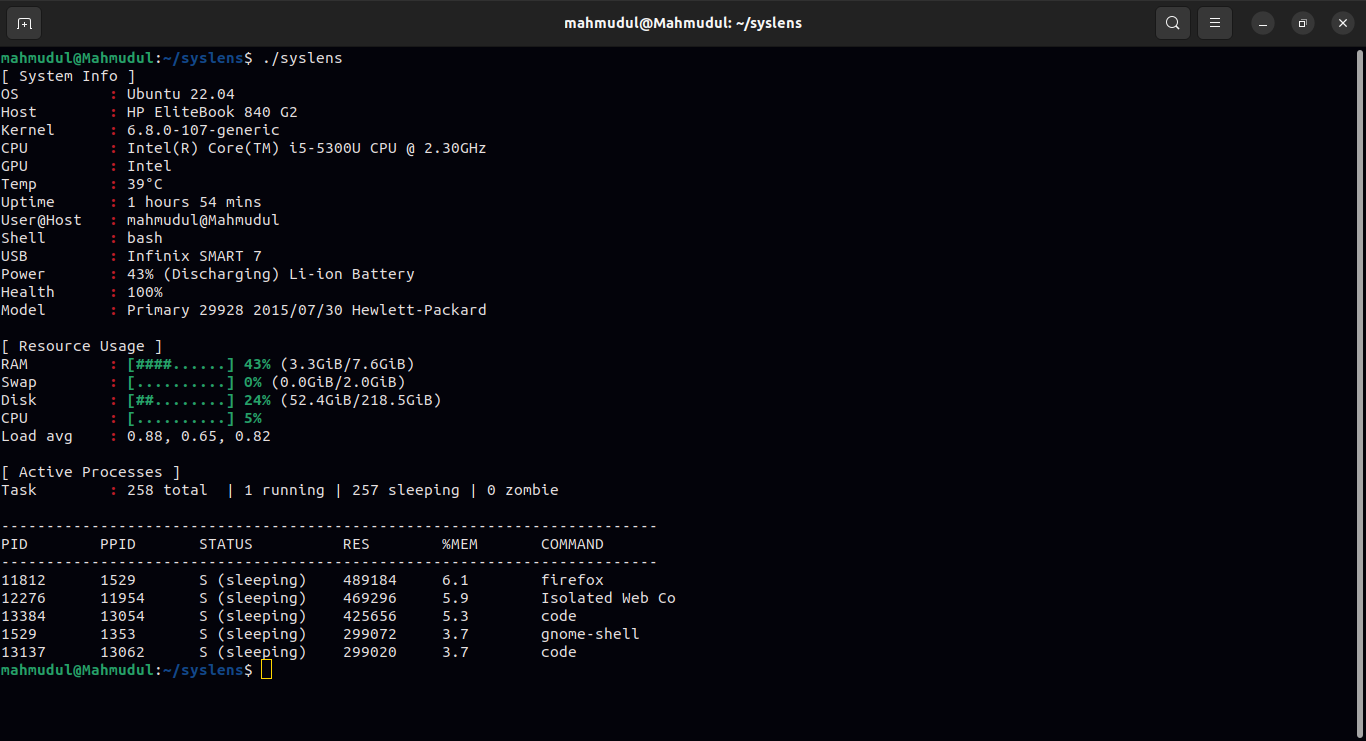
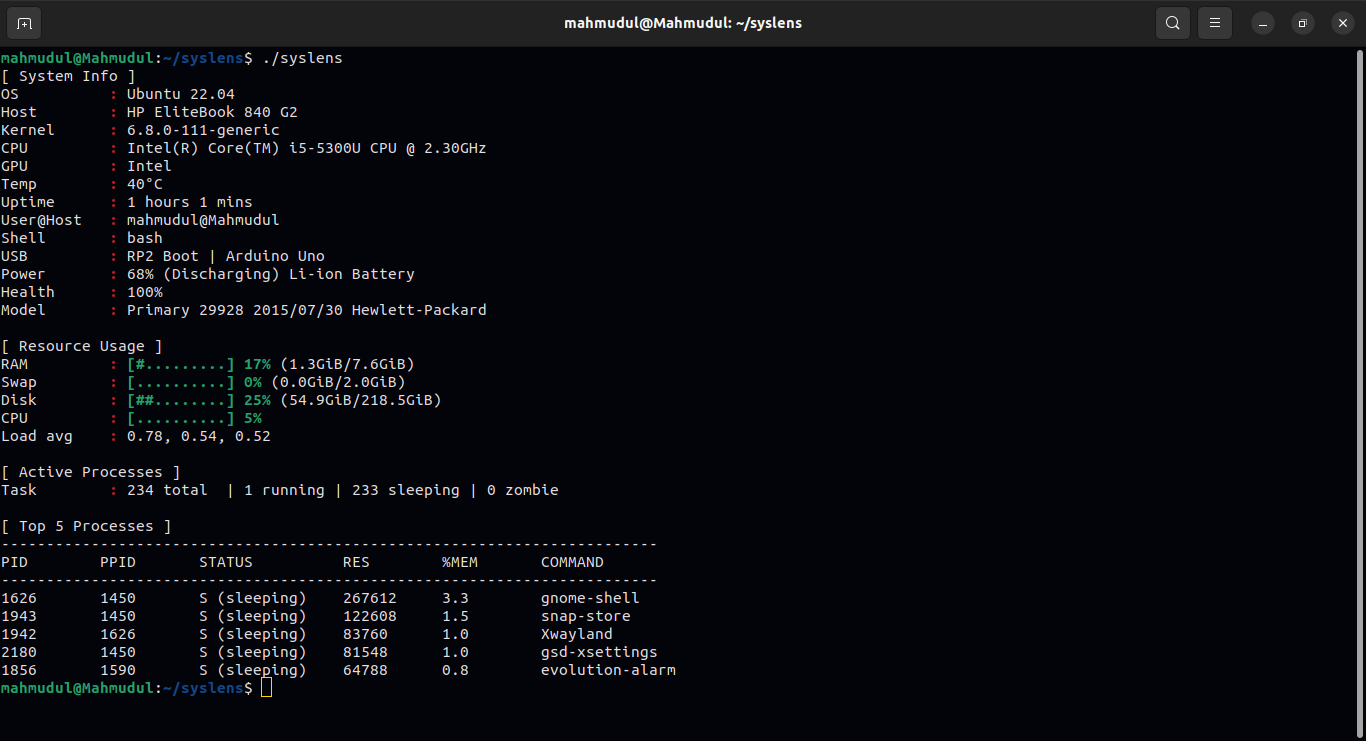
feat(usb): format multiple devices into a single line output

diff --git a/src/sys.c b/src/sys.c
@@ -287,6 +287,7 @@ void usb() {
     if(!d) return;
 
     struct dirent *a;
+    int count = 0;
 
     while ((a = readdir(d)) != NULL)
     {
@@ -305,8 +306,12 @@ void usb() {
 
             if (strcmp(attachment, "removable") == 0)
             {
+		if(count == 0) {
+			printf("USB         "RED":"RESET" ");
+		}
                 char name_path[512];
                 snprintf(name_path, sizeof(name_path), "/sys/bus/usb/devices/%s/product", a->d_name);
+		count++;
 
                 FILE *name_file = fopen(name_path, "r");
                 if(!name_file) continue;
@@ -314,12 +319,17 @@ void usb() {
                 char product_name[64];
                 fgets(product_name, sizeof(product_name), name_file);
                 product_name[strcspn(product_name, "\n")] = 0;
-                printf("USB         "RED":"RESET" %s\n", product_name);
+		if(count > 1) {
+			printf("| %s", product_name);
+		} else {
+                	printf("%s ", product_name);
+		}
                 fclose(name_file);
             }
             fclose(file);
          }
         
     }
+    if(count > 0) printf("\n");
     closedir(d);
 }
